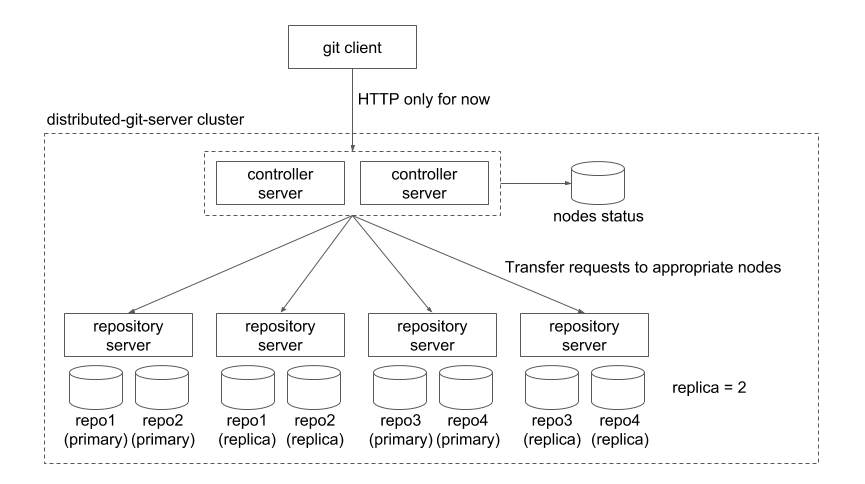
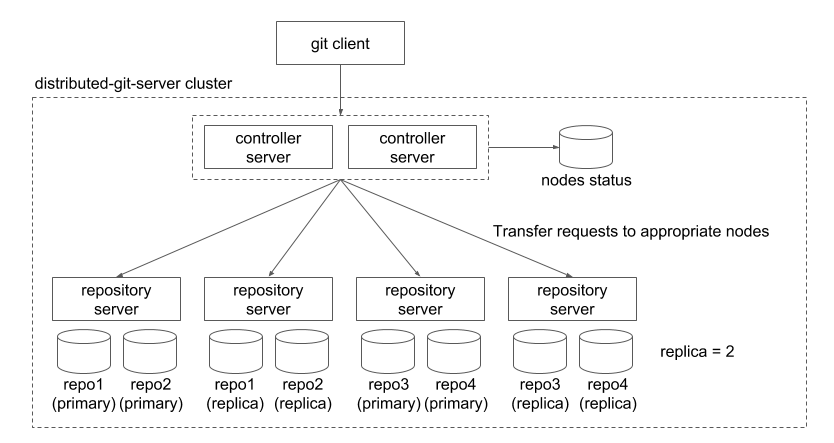
Add setup guilde and update image

diff --git a/README.md b/README.md
@@ -1,9 +1,9 @@
 distributed-git-server
 ========
 
-An experimental project to make a distributed git server cluster
+## What's this?
 
-The main goal of this project is to find a reasonable way to add scalability and redundancy to git repositories. Basic idea is locating git repositories on multiple nodes, and proxy requests from git clients to appropriate nodes. This approach is similar to [GitHub's DGit](https://githubengineering.com/introducing-dgit/).
+This is an experimental project to make a distributed git server cluster. The main goal of this project is to find a reasonable way to add scalability and redundancy to git repositories. Basic idea is locating git repositories on multiple nodes, and proxy requests from git clients to appropriate nodes. This approach is similar to [GitHub's DGit](https://githubengineering.com/introducing-dgit/).
 
 The distributed gitserver cluster consists of following two kinds of servers:
 
@@ -18,3 +18,69 @@ The distributed gitserver cluster consists of following two kinds of servers:
 ![Architecture](architecture.png)
 
 This project is still under development phase, but if you are interested, please try it. Any feedback is welcome!
+
+## Setup
+
+You can run distributed-git-server only from source code for now. This guide shows how to run the cluster with minimum configuration (one controller server and one repository server on a single machine).
+
+### Prerequisites
+
+- Java 8
+- sbt
+- MySQL
+
+You have to create an empty database before run the controller server.
+
+### Controller server
+
+Modify `dgit-controller-server/src/main/resources/application.conf` for your environment, and run as following:
+
+```
+$ cd dgit-controller-server
+$ sbt ~jetty:start
+```
+
+The controller server is started on port 8080 in default. Tables are created automatically in the database configured in `application.conf`.
+
+### Repository server
+
+Modify `dgit-repository-server/src/main/resources/application.conf` for your environment, and run as following:
+
+```
+$ cd dgit-repository-server
+$ sbt ~jetty:start
+```
+
+The repository server is started on port 8081 in default.
+
+### Check the cluster operation
+
+Let's create a new repository and push a commit using `git` command to check the cluster operation.
+
+You can create a new repository as following:
+
+```
+$ curl -XPOST http://localhost:8080/api/repos/test
+```
+
+In this case, a repository url is `http://localhost:8080/git/test.git`.
+
+Create a local repository:
+
+```
+$ mkdir test
+$ cd test
+$ git init
+```
+
+Push a first commit to the remote repository on the cluster:
+
+```
+$ touch README.md
+$ git add .
+$ git commit -m 'first commit'
+$ git remote add origin http://localhost:8080/git/test.git
+$ git push origin master
+```
+
+The remote repository is created under the directory configured in the repository server's `application.conf`.
